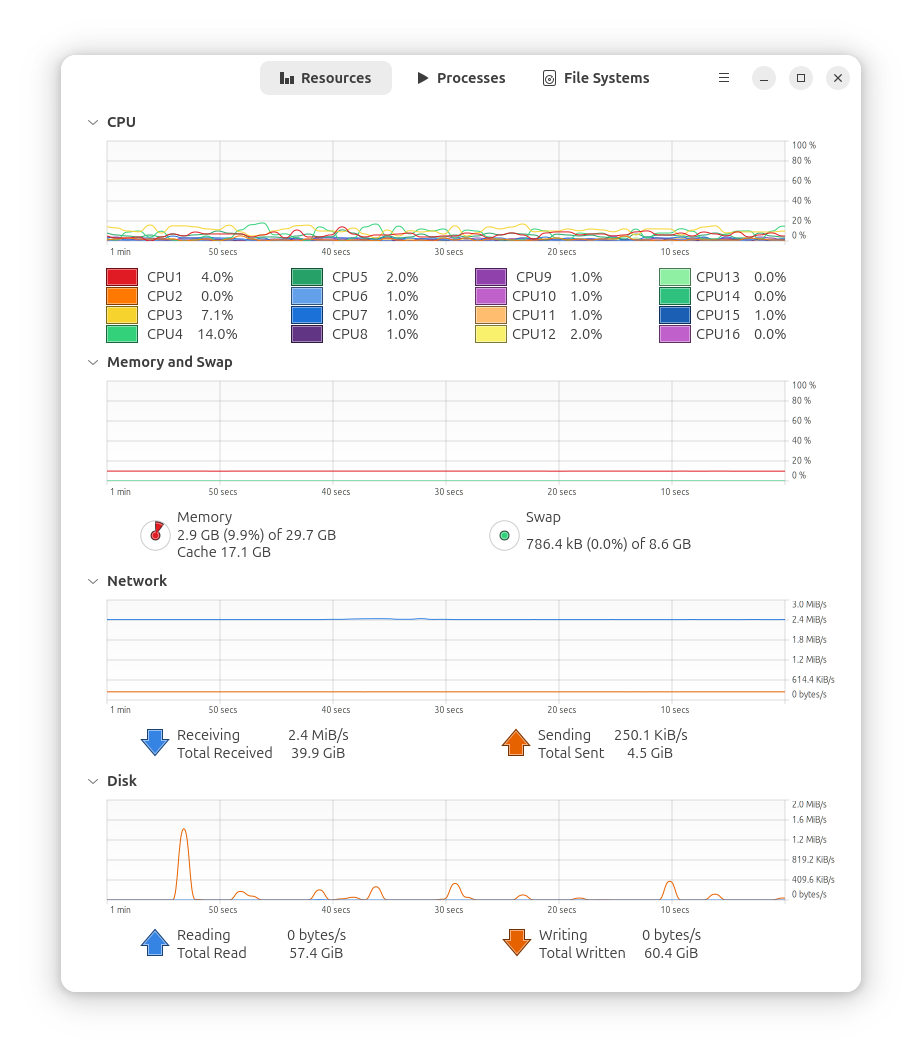
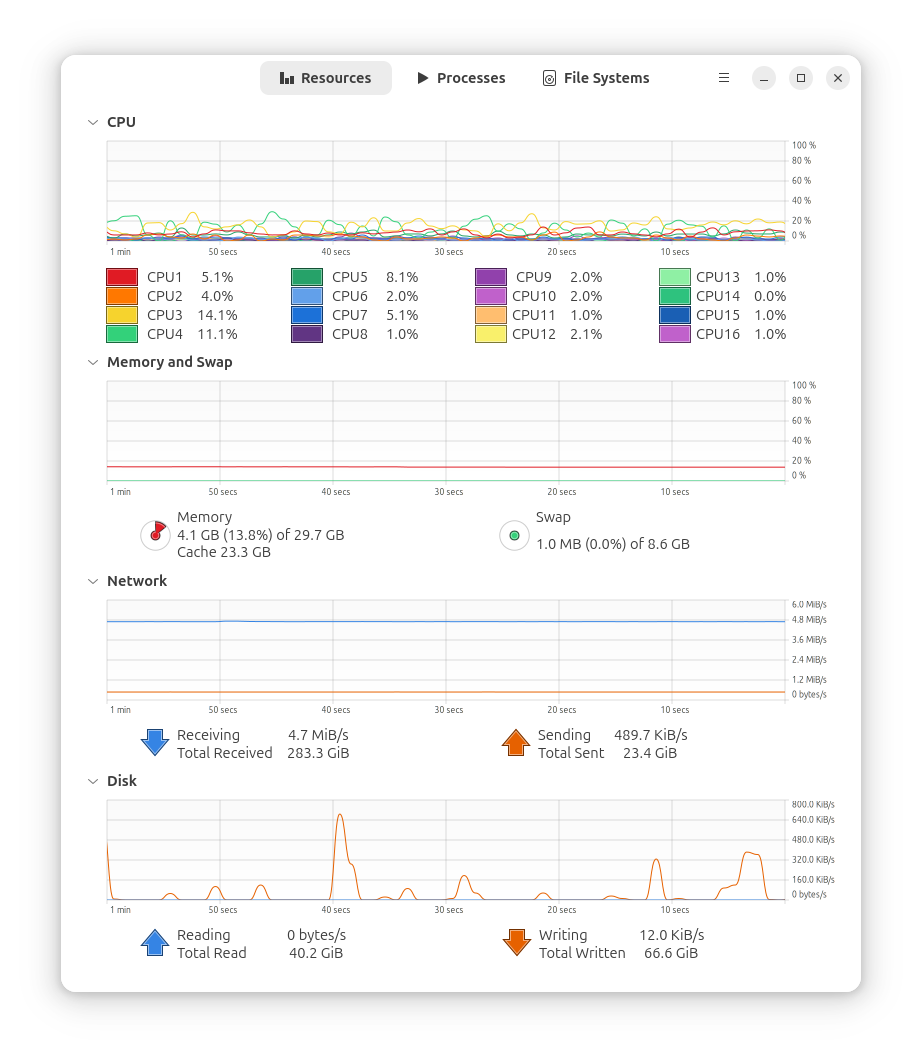
More image updates

diff --git a/README.md b/README.md
@@ -82,6 +82,6 @@ cargo build
 cargo run
 </pre>
 
-# System Utilization running Ubuntu 25.04 on a BOSGAME P3 Ryzen 9 Mini PC - 8 Cores (16 threads), 32GB Memory
+# System Utilization with 2 receivers running Ubuntu 25.04 on a BOSGAME P3 Ryzen 9 Mini PC - 8 Cores (16 threads), 32GB Memory
 
 <img src="https://github.com/g0orx/rustyHPSDR/blob/main/images/system.png">
